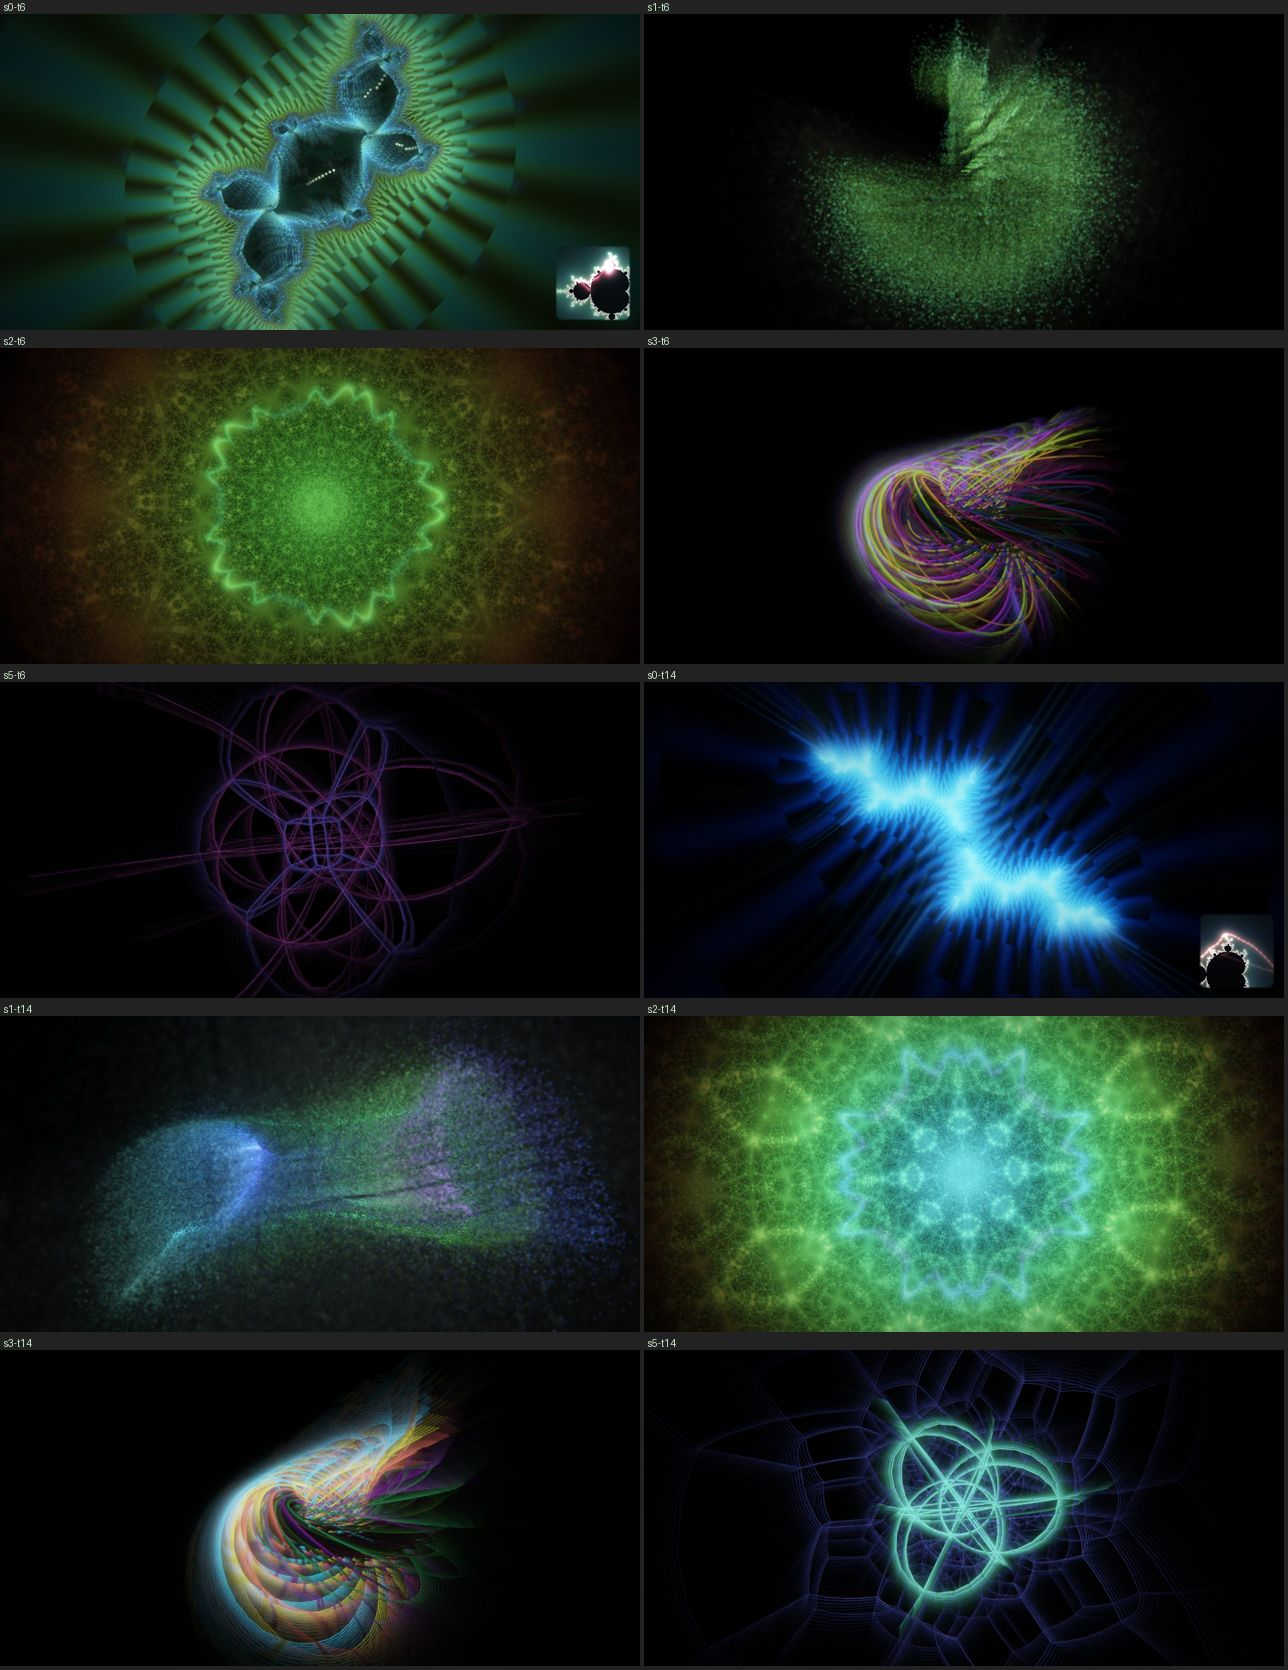
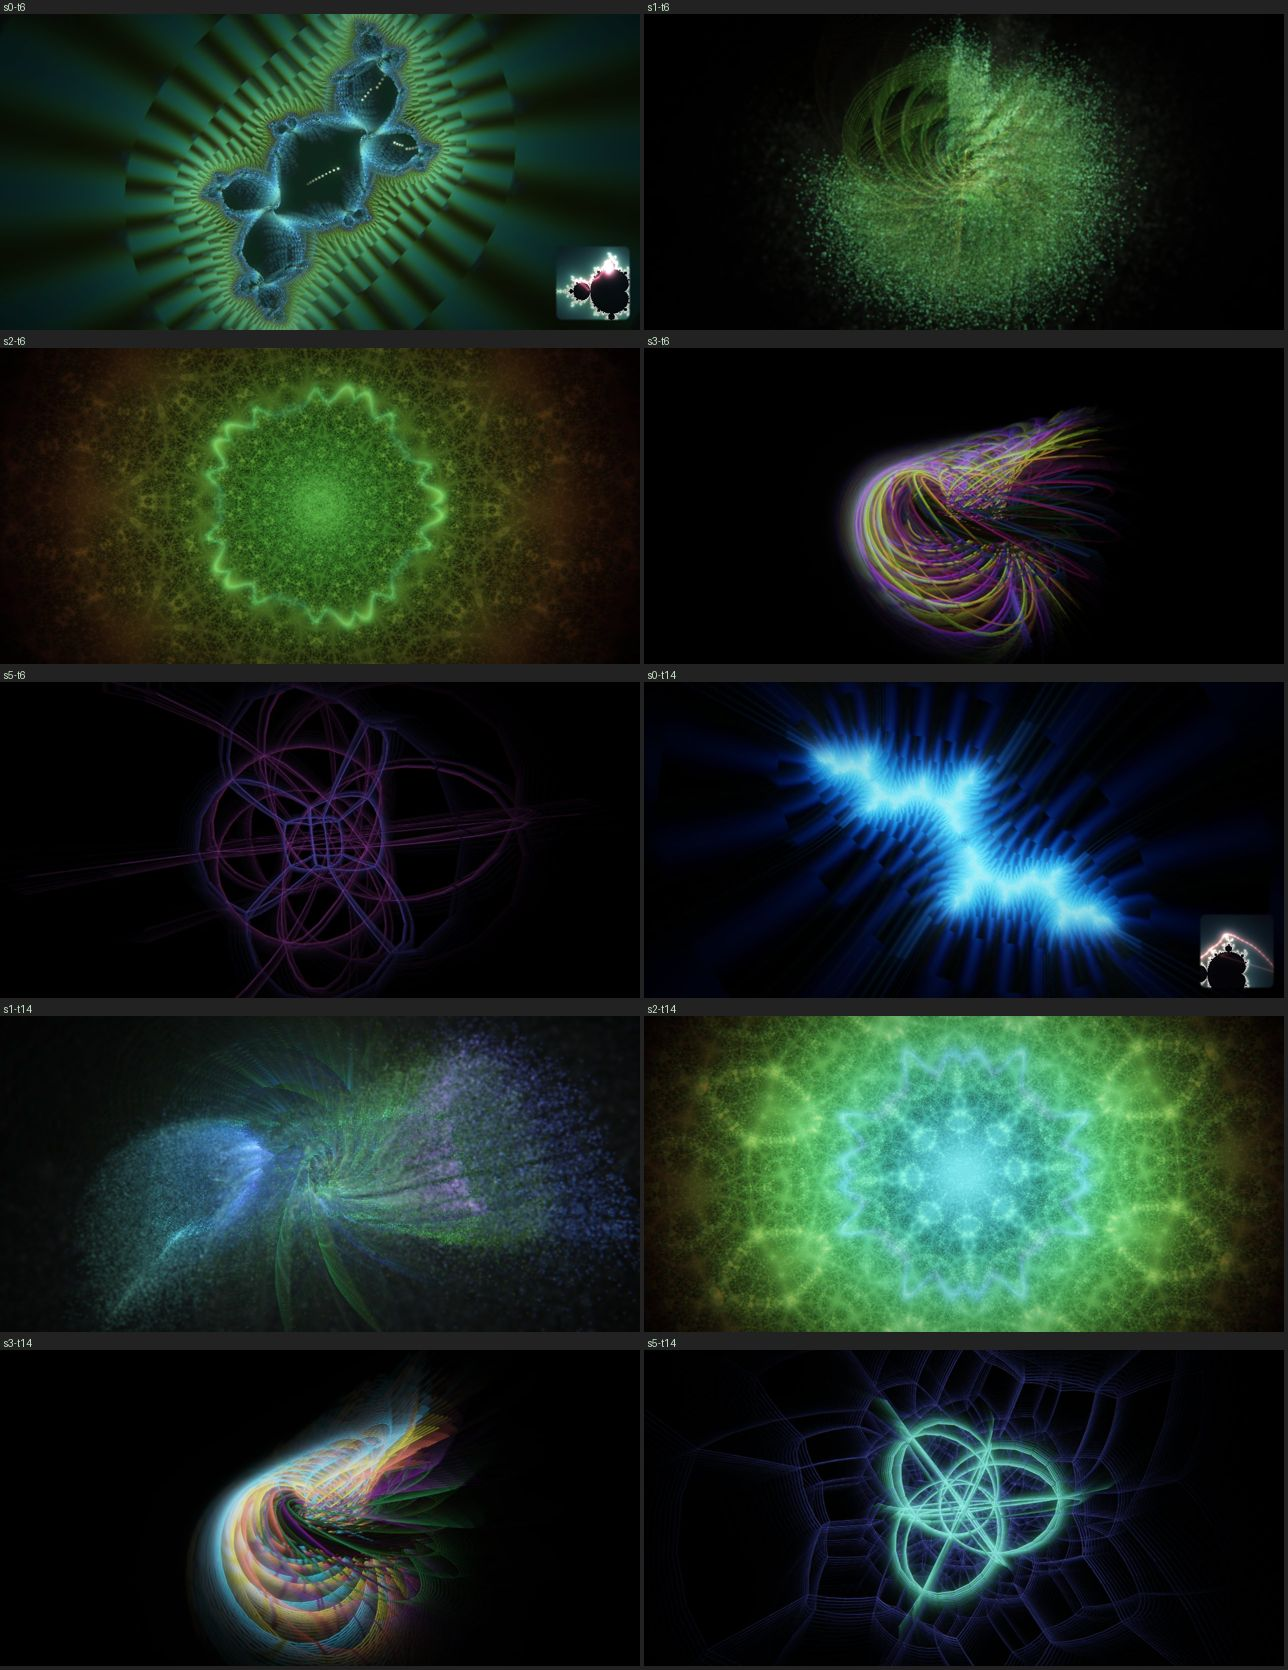
§14 accepted: DUST's Hopf-fibre overlay (worker) — A/B md5s equal §13's DUST with fibres off, +1.37 ms at tier 3 for 3168 segments (0.4 µs/segment, now in CONTRACTS §1.12), hooks' receiver/timing in §1.4, DECISIONS §14; accept.sh hist-md5 line for scenes that sample hist; JULIA-vs-NAV side-by-side m

diff --git a/docs/DECISIONS.md b/docs/DECISIONS.md
@@ -544,3 +544,37 @@ Sources are read-only: `~/Documents/Kraftek/Cardioid/cardioid3.html` (v3, truste
 - **Harness additions:** `tools/scene-md5.sh <tag> [&extra]` (the before/after shot loop as a `diff`, reusable for any
   core change and for §15's determinism check), `tools/hist-check.js`, `CARD.ctx.engineTex.bytes`. `check.js` 0 fail
   / 0 warn after every edit.
+
+## §14 DUST's Hopf-fibre overlay (v0.2, 2026-09-23, worker from the brief, `docs/workers/dust-fibre.md`)
+
+- **What came back.** Synapse's swarm overlay (scene 4: `nl` latitude tori of `nF` Hopf fibres, `N` segments each,
+  through its `seg()` with additive glow and a depth test that never worked — dropped in v0.1, §3) as `ctx.lines`
+  path A inside `scenes/dust/` (`fibre.js` 92 lines: counts, `emit`, `fit`; `index.js` 181 → 225). The fibres come from
+  `math/hopf.js` (`fibre4` → `rotSU2` → `stereo`, the pole gate on `den = 1 − z₄` before projecting: emit when
+  `min(den) > 0.14`, brightness × `min(1, (min(den) − 0.14)·4)`, alpha 1 — coverage, §1.12), scaled by `S0·g` with
+  `g = (1 − 0.3·tension)(1 + 0.6·dropEnv + 0.08·kick)` and `S0 = 0.7` (0.9 swept out of frame at `dist` 4.4, 0.55 stopped
+  reading as rings), drawn after the points into the same target with `{ mvp: this.vp, blend: 'add' }` and no depth
+  (the points write none). Counts per tier from synapse's `q = [0.4, 0.7, 1, 1.4]`: 2×7×40 = 560 · 3×8×48 = 1152 ·
+  4×10×56 = 2240 · **4×12×66 = 3168** (the brief's "tier 3 = 2240" was tier 2; the worker sized `CAP` from the formulas
+  instead of the brief's `mk(2560)`, which would have silently lost 3 of 12 fibres per torus). Brightness per fibre
+  `0.3·(0.35 + lvl)·(0.35 + 1.3·b)·alive` with `b = [bassS, midS, highS][l % 3]` per torus (scenes have no spectrum
+  array; `chroma` skipped — zero on the fake timeline), palette coordinate `0.15 + 0.22·l + 0.6·f/nF` through DUST's
+  mood palette, width `1.5·(h/720)·dist/viewZ` px. `feats` + 3 (`flowBass`, `highS`, `alive` was there), `help.feats`
+  updated for every field the rings also move; `look`, `cuts: 'onset'`, `score`, `post`, id untouched.
+- **A/B.** `hooks.fibres(0|1)` (`&fibres=0`): the `CLOCK=1` f360/f840 shots with the overlay off are **byte-identical to
+  §13's DUST** (`e49cf54e…`, `7119a542…`) — the points path is untouched; with it on, identical across two runs
+  (`669aac71…`, `f26d50de…`). `tools/work/dustf-ab.jpg` / `accept/v0.2/s1-t6.jpg`, `s1-t14.jpg`: faint nested arcs
+  inside the sphere at t6, linked rings threading the pour at t14, the swarm still the subject, nothing like TORUS's
+  144-ring nest; 0.0000 % pure-white pixels on all four shots.
+- **Cost — the finding.** `CARD.bench(1, 400)`, interleaved on/off (an all-on-then-all-off sequence was destroyed by
+  load drift): tier 0 **0.87 / 0.70 ms**, tier 3 **2.72 / 1.35 ms**, i.e. **+1.37 ms for 3168 segments**; house at
+  tier 3 +1.12 ms. A node micro-bench puts `emit` at 0.02–0.11 ms, so ~0.4 µs per segment is `ctx.lines.set` + the
+  instanced draw. That is 10× the brief's "~0.1 ms" expectation, which came from POLYTOPE's §8 bench — a number the
+  §11 harness finding later showed was submission time, not render time (no bench before §11 synced). §1.12 now says
+  0.4 µs/segment and that 50 k is *not* fine. Accepted as is: DUST at tier 3 is 2.7 ms against NAV's 2.7–2.9. Polish
+  candidates: a smaller tier-3 count (`4×10×56` is visually the same picture), or a `stride` in `set` for static rings.
+- **Friction (9) → docs:** hooks' receiver and timing (§1.4: plain call, before `init`, state on the literal); the
+  per-segment cost (§1.12); `SC.hist` and `bench`'s default `n` (HARNESS); the brief's `rotSU2` parenthetical was
+  wrong (synapse's `(y, q)` rotation is `poleOffset`, a rotation of S³ that is not in SU(2); the worker kept `rotSU2`,
+  which carries fibres to fibres — the better choice, and invisible on screen); DUST has no `presence` read, so the
+  rings scale with `alive` like the grains. Temptation not taken: `core/lines.js` (bisected the cost from outside).

diff --git a/docs/CONTRACTS.md b/docs/CONTRACTS.md
@@ -170,7 +170,11 @@ needed, now generic:
   `ctx.budget('segs')` = `[2500, 5000, 9000, 16384]` for CPU stroke buffers (`ctx.lines.mk` capacity = the top entry).
   Per-ring / per-edge subdivision tables (TORUS's segments per ring, POLYTOPE's subdivisions per edge) are geometry,
   not counts, and stay in the scene, indexed by `ctx.tier()`.
-- **Hooks**: named test entry points; the harness exposes them and maps `&name=value` hash params under `#test`.
+- **Hooks**: named test entry points; the harness exposes them as `CARD.hooks.<name>` and maps `&name=value` hash
+  params under `#test`. They are called as plain functions (the receiver is `CARD.hooks`, not your scene — refer to
+  your module-level object, never `this`) and a hash hook fires **before your `init`** and before the first frame: keep
+  the state a hook sets on the object literal (`fibresOn: 1`), not in `init`, or `init` clobbers it. A hook that sets
+  a phase your scene clamps on arrival (FEIGEN's `feigL`) must also mark the scene as arrived.
 - **`always`**: update every frame regardless of visibility (the home scene needs it; most scenes should not).
 
 ### 1.5 `LOOK` and `GROOVE`
@@ -290,8 +294,10 @@ invisible still writes depth: `discard` below a small threshold (`if (a < 0.004)
 behind it. Path A's built-in program does both already.
 
 Widths under 1 px dim instead of thinning (constant energy), so distant hairlines fade rather than sparkle. Cost: four
-vertices per segment; path B evaluates `P` twice per vertex. 50 k segments is fine; put the `tier()` budget in the
-number of segments per ring, never in the number of rings, if your `cuts` is `'continuous'`. `tools/lines-smoke.js`
+vertices per segment; path B evaluates `P` twice per vertex. Measured (§14, `CARD.bench` at 1280×720, GPU=1): path A
+`set` + `draw` ≈ **0.4 µs per segment** — 3.2 k segments ≈ 1.3 ms, so 50 k would be ~20 ms; plan against that, and take
+the count from `ctx.budget('segs')` (§1.4). Put the `tier()` budget in the number of segments per ring, never in the
+number of rings, if your `cuts` is `'continuous'`. `tools/lines-smoke.js`
 (HARNESS.md) is the reference for a minimal path-A and path-B program.
 
 ### 1.13 Help view — what the `?` overlay shows from your scene

diff --git a/docs/HARNESS.md b/docs/HARNESS.md
@@ -162,7 +162,7 @@ with the help open at frame 290 `[SC.cur, SC.next, SC.m]` is the same triple and
 
 ## `window.CARD` (available in every page)
 
-`MS` (music state) · `SC` (director) · `Q` · `FX` · `ERRS` (shader errors — must be `[]`) · `GROOVE` · `LOOK` · `ENGINE`
+`MS` (music state) · `SC` (director; `SC.hist` = the ids shown so far, `SC.cur/next/m`) · `Q` · `FX` · `ERRS` (shader errors — must be `[]`) · `GROOVE` · `LOOK` · `ENGINE`
 (`ENGINE.ms` = engine CPU ms/frame EMA) · `SCENES` (scene objects, registration order) · `REG[id]` = `{id, base, scene, variant}` ·
 `EFFECTS` · `TRANSITIONS` · `FEATS` · `HELP` (`on`, `ticks`, `nTop`, `rows(topOnly)` — "Help view" above) · `log` (event log under #test:
 `DROP@t`, `SECTION@t arc`, `SCENE@t -> id`, 1 Hz status lines) · `frameN` · `home` (the home scene's state; `NAV` in v3) ·
@@ -173,7 +173,8 @@ with the help open at frame 290 `[SC.cur, SC.next, SC.m]` is the same triple and
   For an immediate check evaluate `CARD.ctx.gl.getError()` (0 = clean).
 - Pinning quality: `CARD.Q.q` is re-adapted every frame, so pin it with `setInterval(() => CARD.Q.q = 0.1, 16)` and
   wait longer than the scene's own smoothing (TORUS eases its tier over ~2 s; wait 8 s before the shot).
-- `CARD.goScene(id, hard)` · `CARD.bench(id, n=40)` → ms per full-resolution render of scene id, readPixels-synced ·
+- `CARD.goScene(id, hard)` · `CARD.bench(id, n)` → ms per full-resolution render of scene id, readPixels-synced (the
+  default `n` is 40 for a quick look; a number you report needs `n ≥ 300`, see below) ·
   `CARD.benchTransition(n=300)` → the same per registered transition ("Transition" above).
   Headless timers quantise to ~1/24 ms: use `n ≥ 300`, run it three times, read the median; below ~0.1 ms it only says "cheap".
   The first call after any pause is cold (0.5–1.5 ms, shader warm-up) — discard it.
